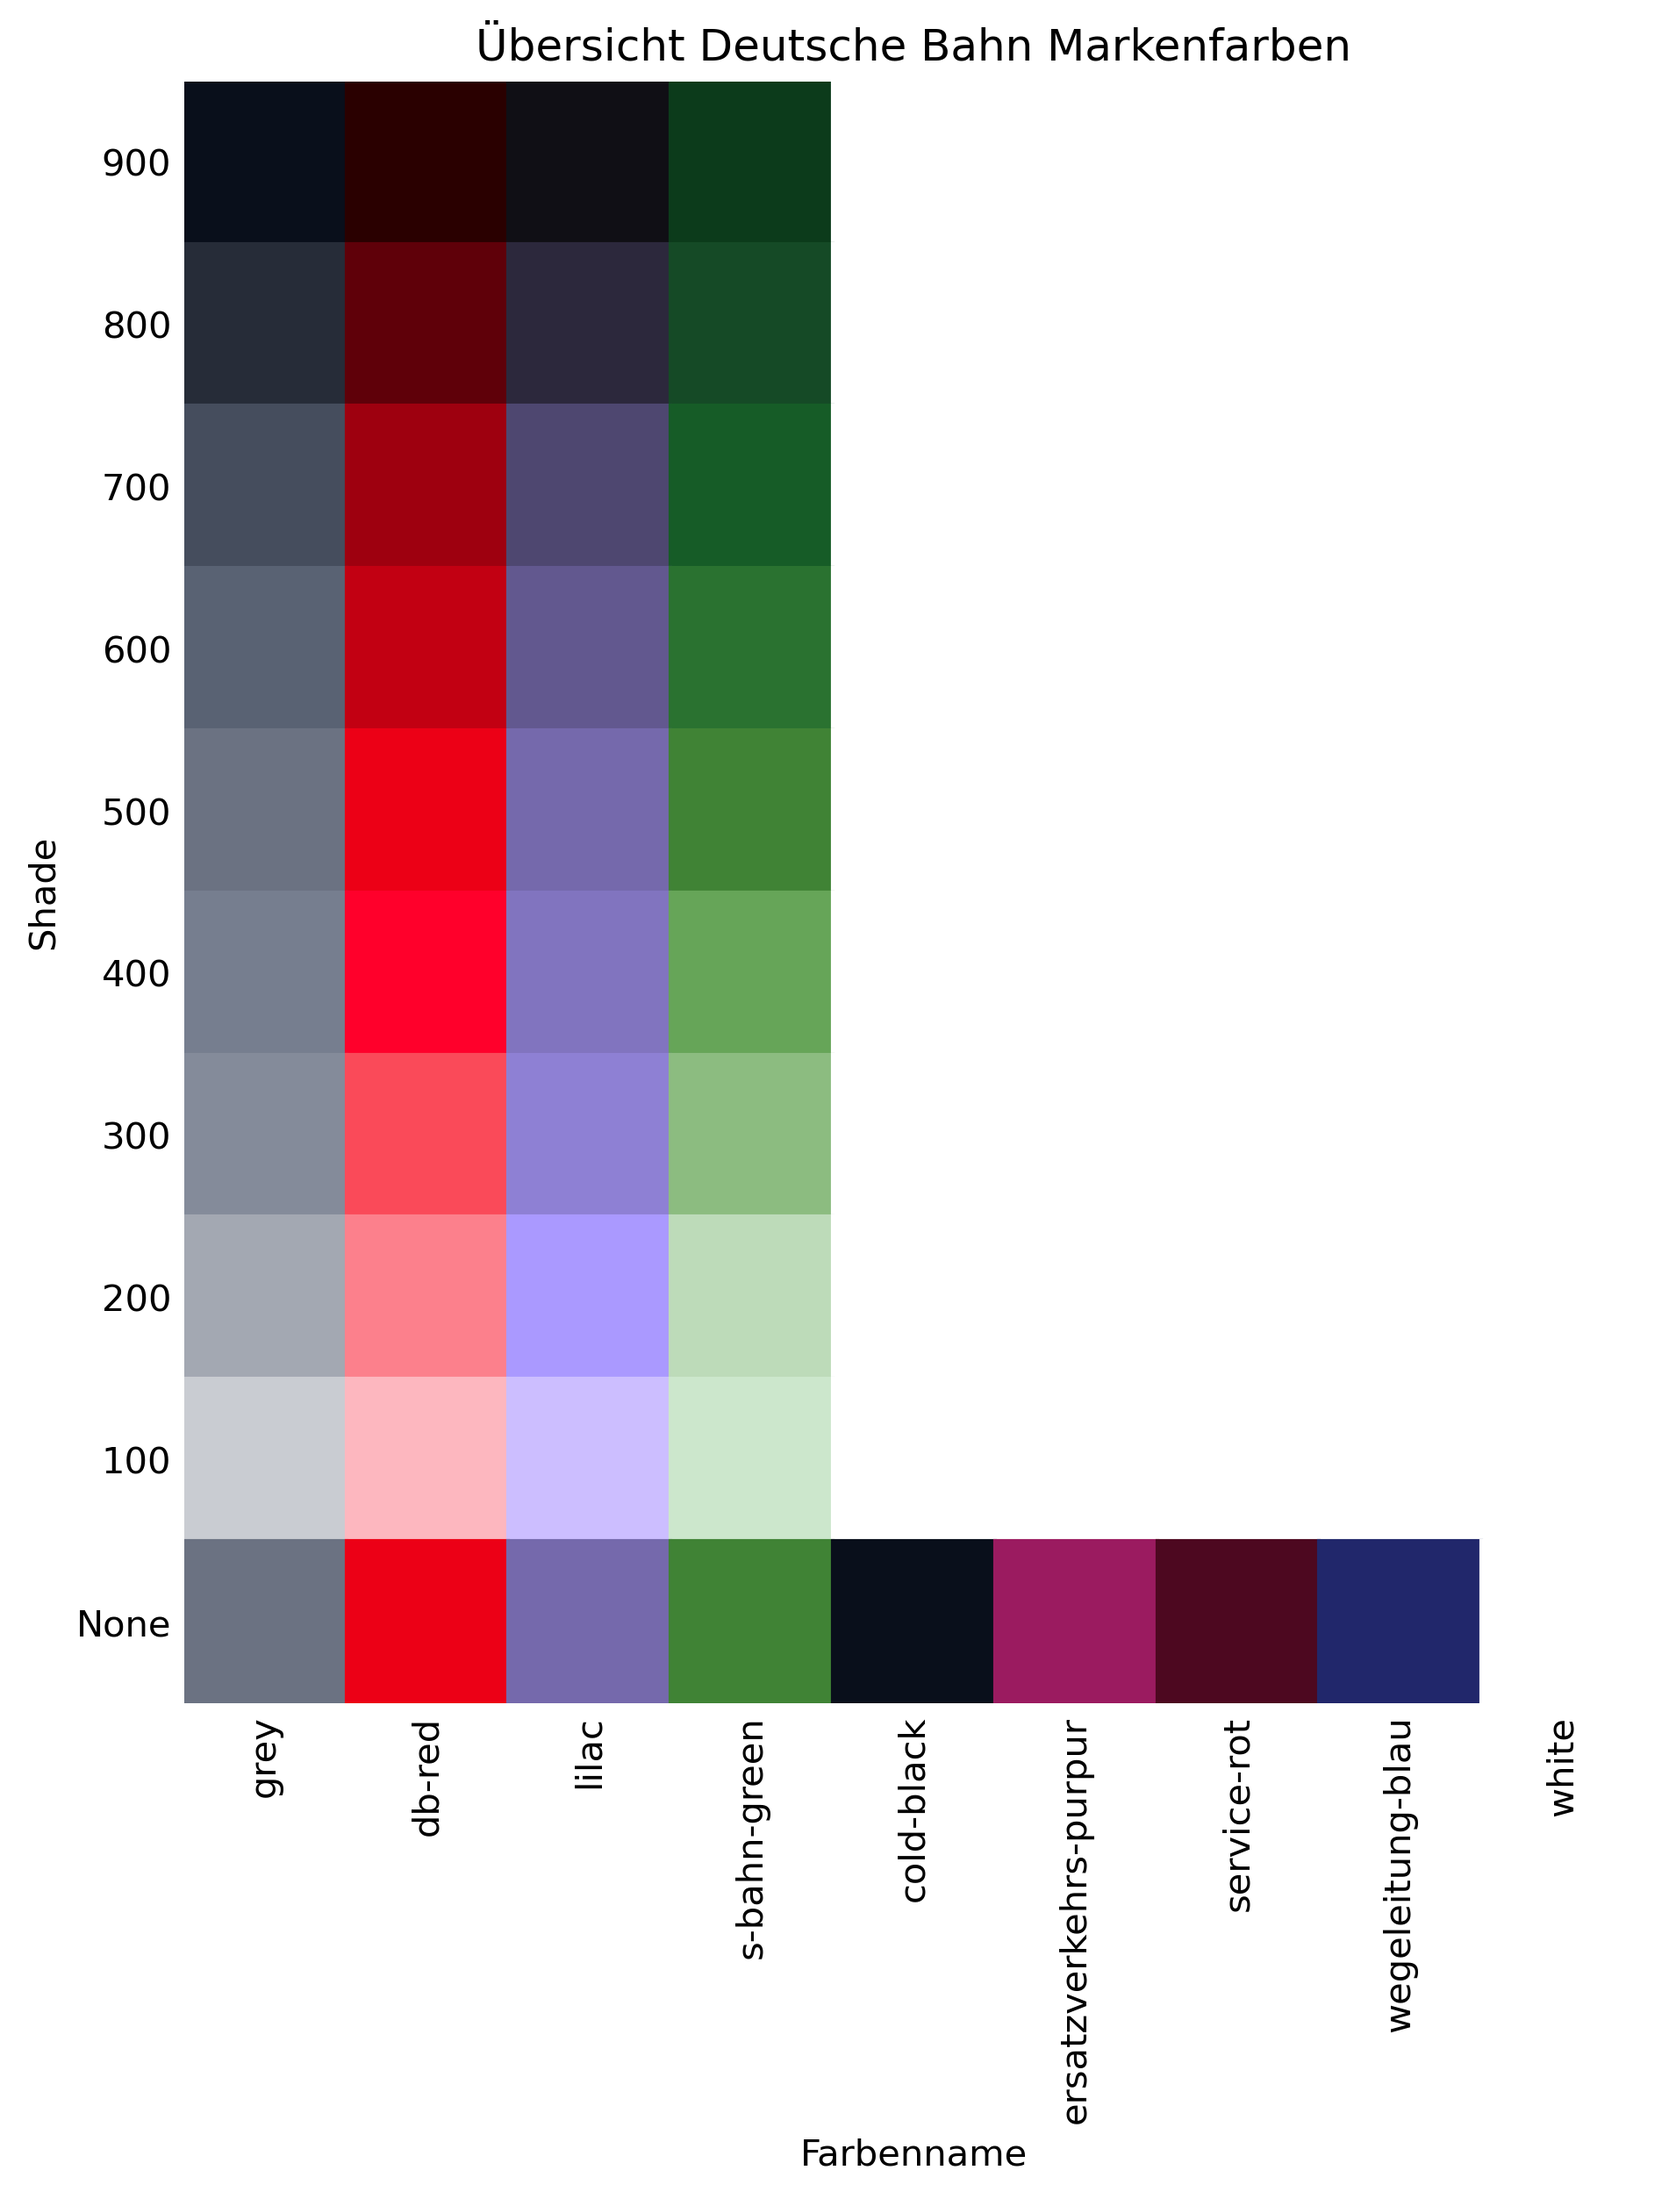
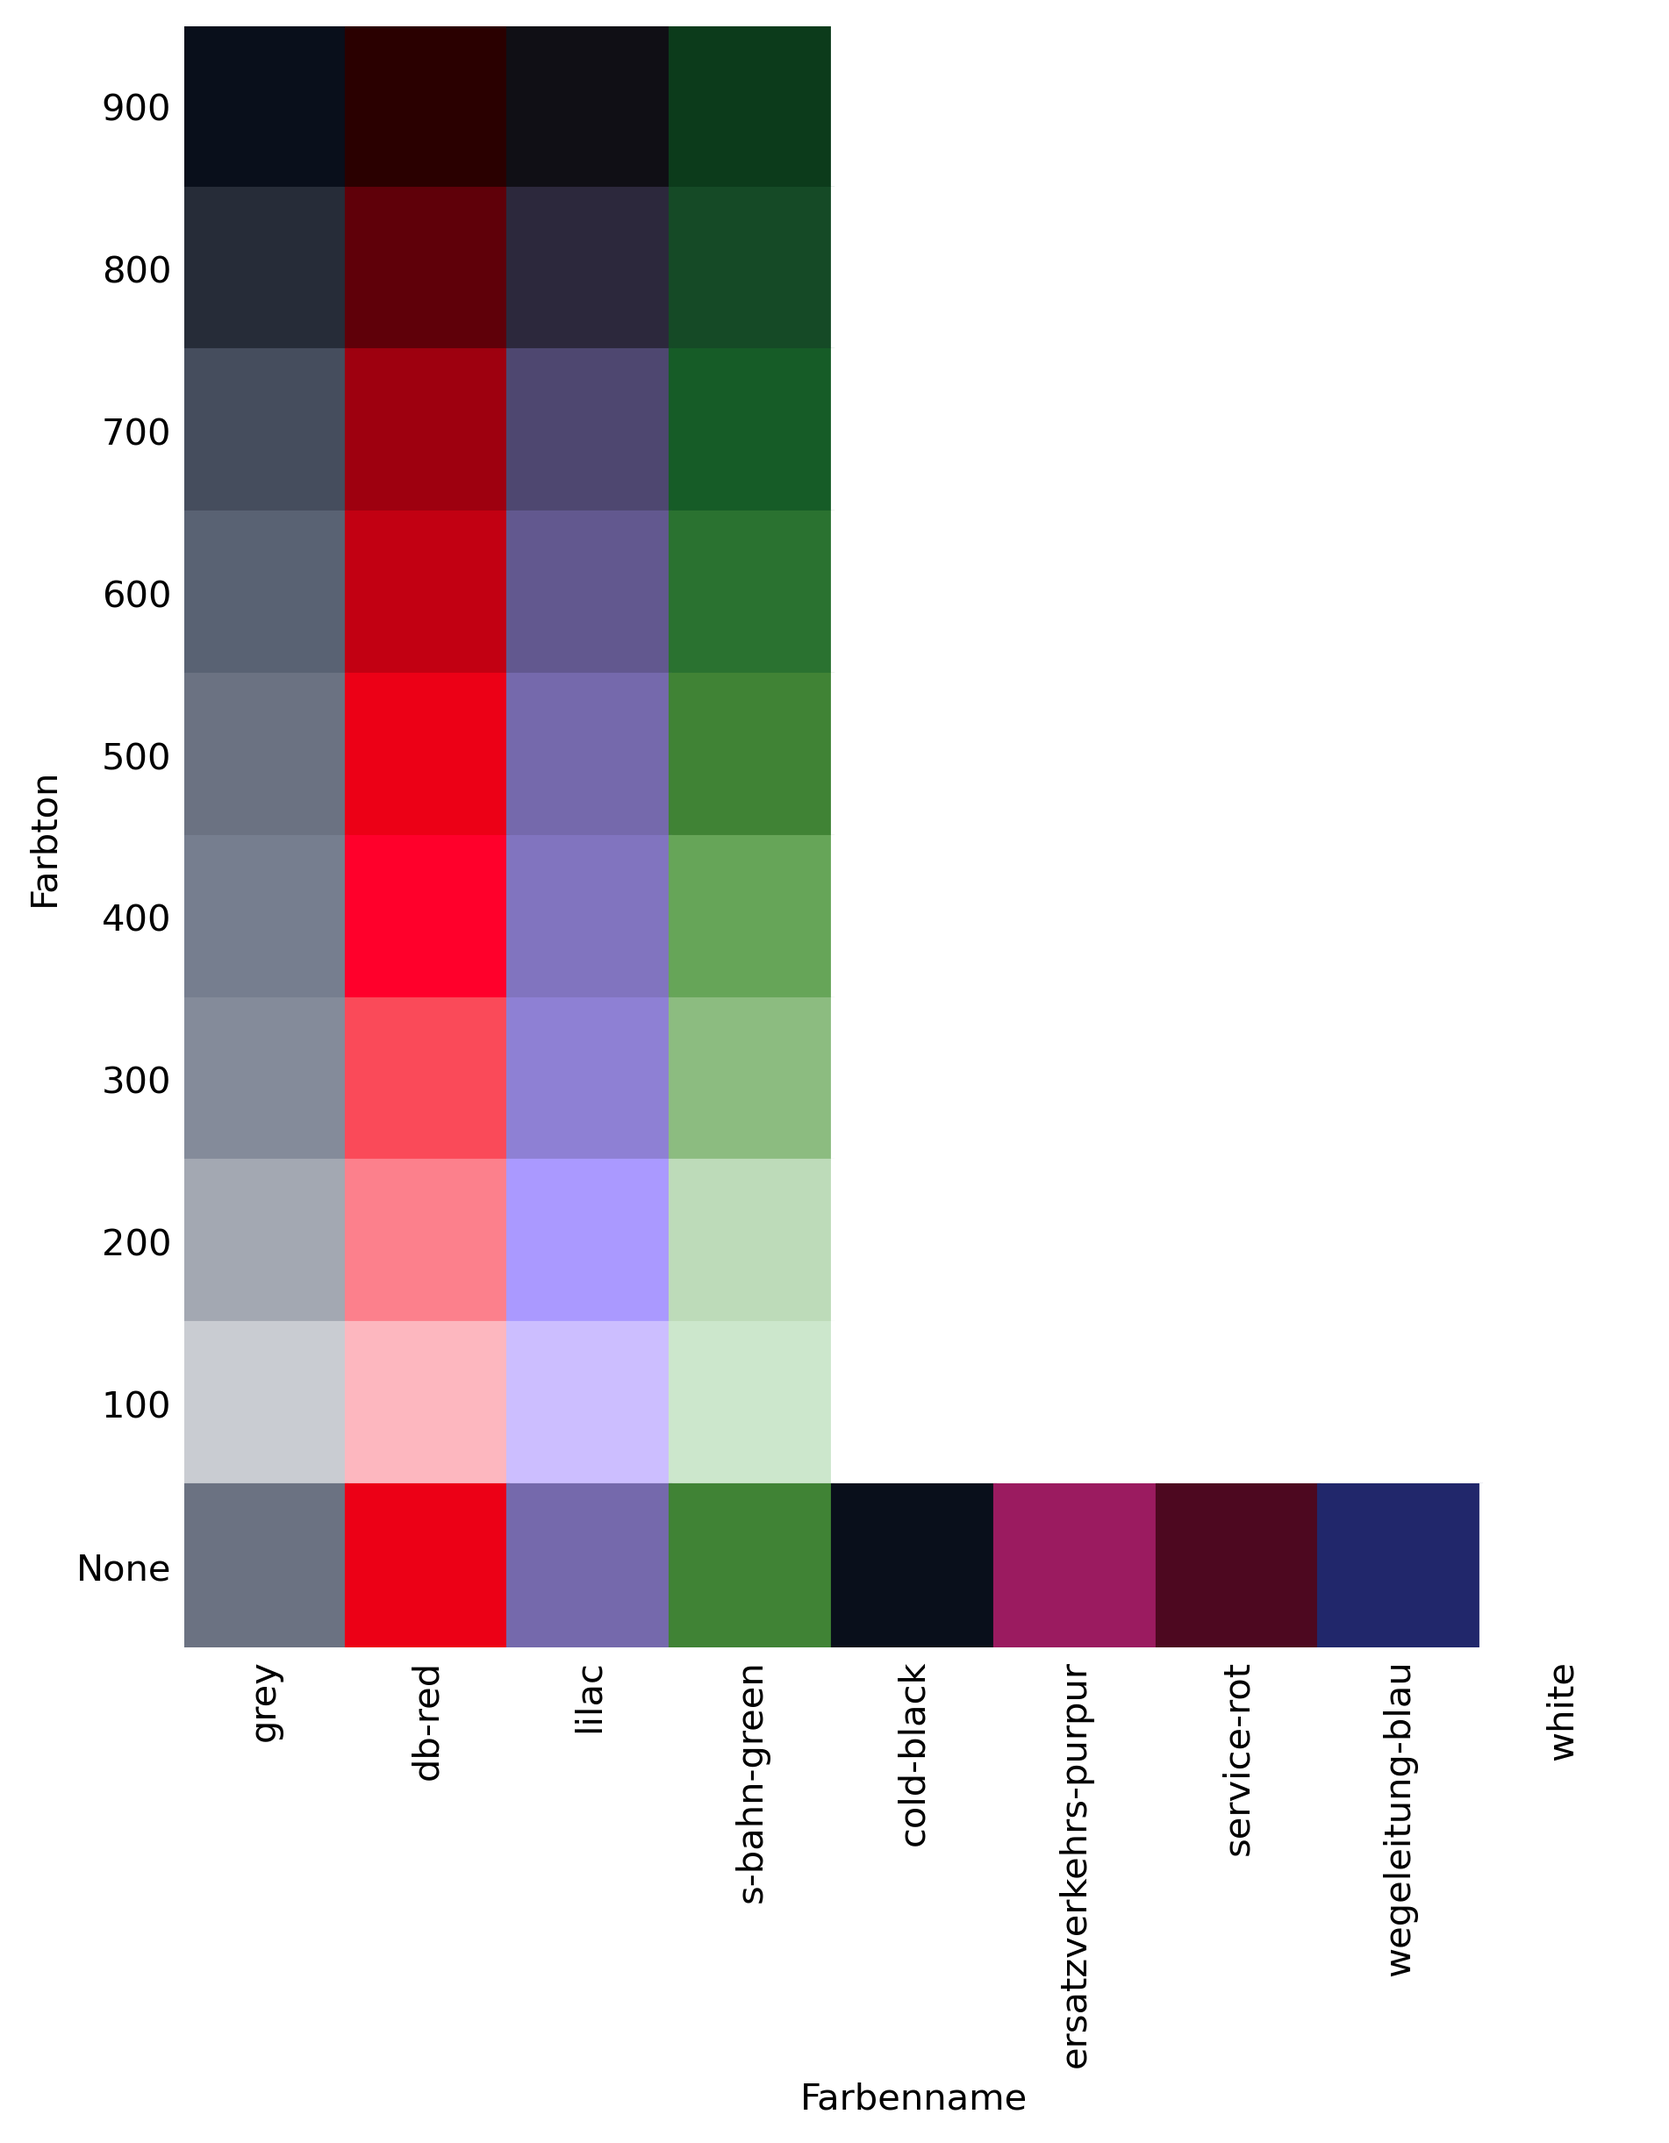
Clean up color overview docs

diff --git a/overview/overview.py b/overview/overview.py
@@ -73,8 +73,8 @@ ax.set_yticks([j for j in [i+0.5 for i in range(df.shape[0])][::-1]])
 ax.set_xticklabels(df.columns, rotation=90)
 ax.set_yticklabels(df.index)
 ax.set_xlabel("Farbenname")
-ax.set_ylabel("Shade")
-ax.set_title("Übersicht Deutsche Bahn Markenfarben")
+ax.set_ylabel("Farbton")
+# ax.set_title("Übersicht Deutsche Bahn Markenfarben")
 
 # Set the aspect ratio to be equal
 ax.set_aspect('equal')

diff --git a/README.md b/README.md
@@ -8,6 +8,8 @@ db_colors.get('red', 200)  # Returns '#fcc8c3'
 db_colors.get('red', 200, 'rgb')  # Returns (252, 200, 195)
 ```
 
+## Übersicht Deutsche Bahn Markenfarben
+
 ![Brand colors of Deutsche Bahn AG](overview/overview.png)
 
 `['cold-black', 'db-red', 'ersatzverkehrs-purpur', 'grey', 'lilac', 's-bahn-green', 'service-rot', 'wegeleitung-blau', 'white']`

diff --git a/overview/README.md b/overview/README.md
@@ -1,3 +1,6 @@
-# Deutsche Bahn Markenfarben
+# Übersicht Deutsche Bahn Markenfarben
+
 `['cold-black', 'db-red', 'ersatzverkehrs-purpur', 'grey', 'lilac', 's-bahn-green', 'service-rot', 'wegeleitung-blau', 'white']`
+
+
 ![Brand colors of Deutsche Bahn AG](overview.png)
